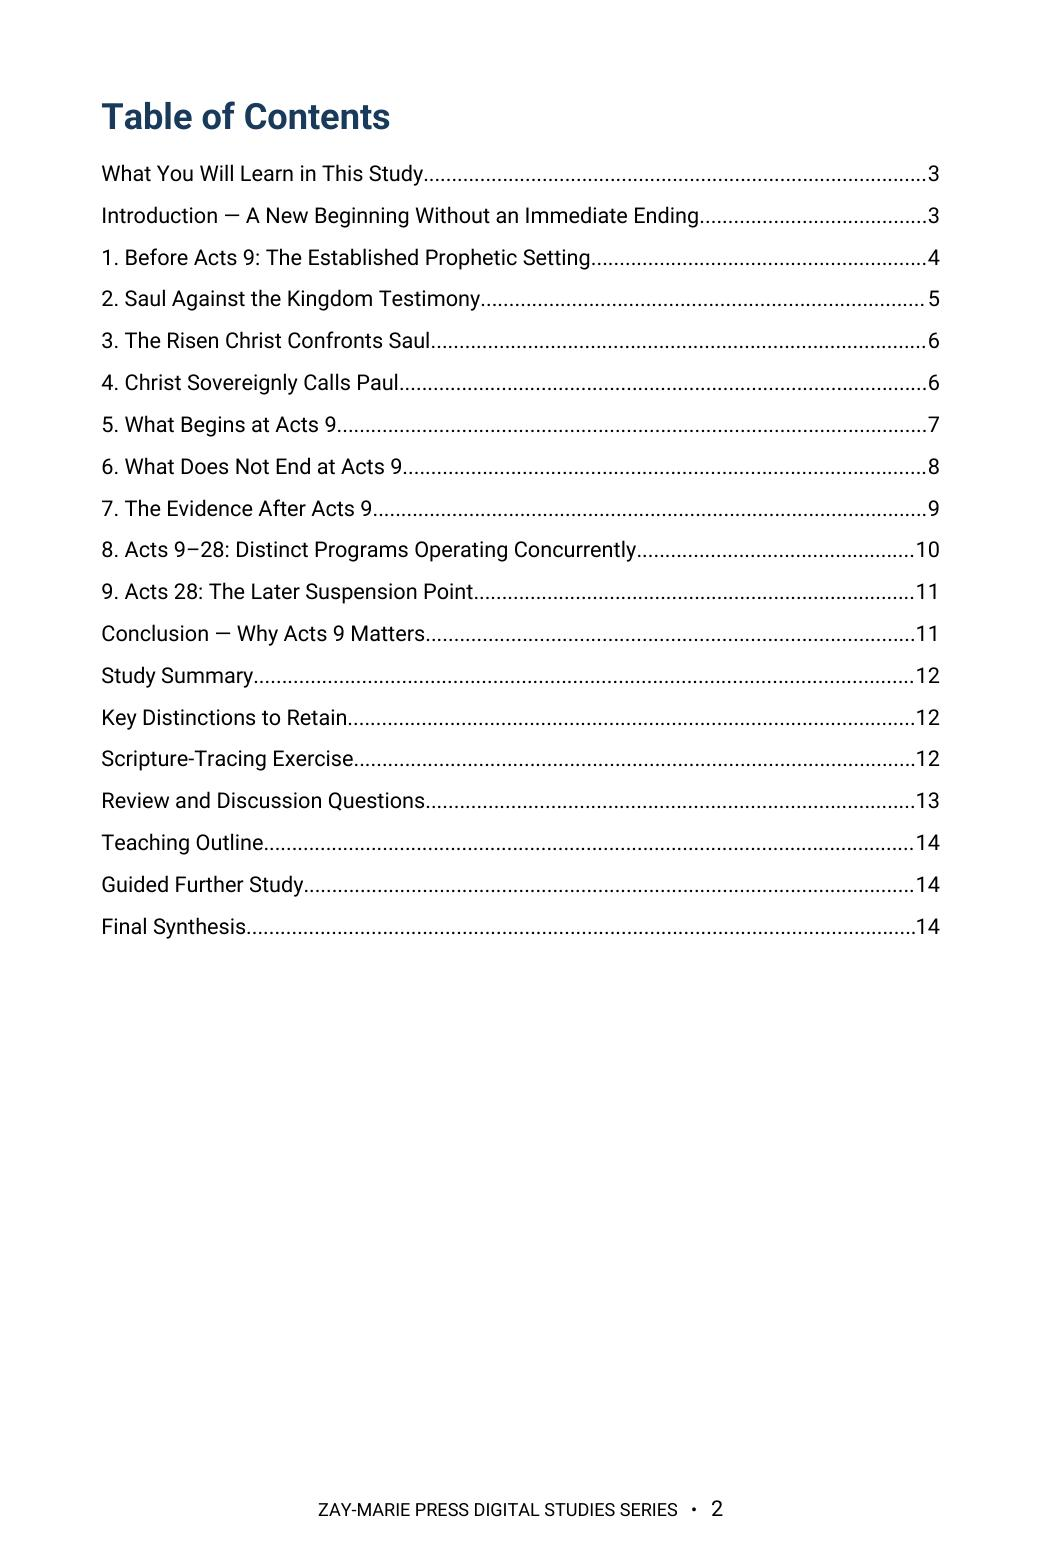
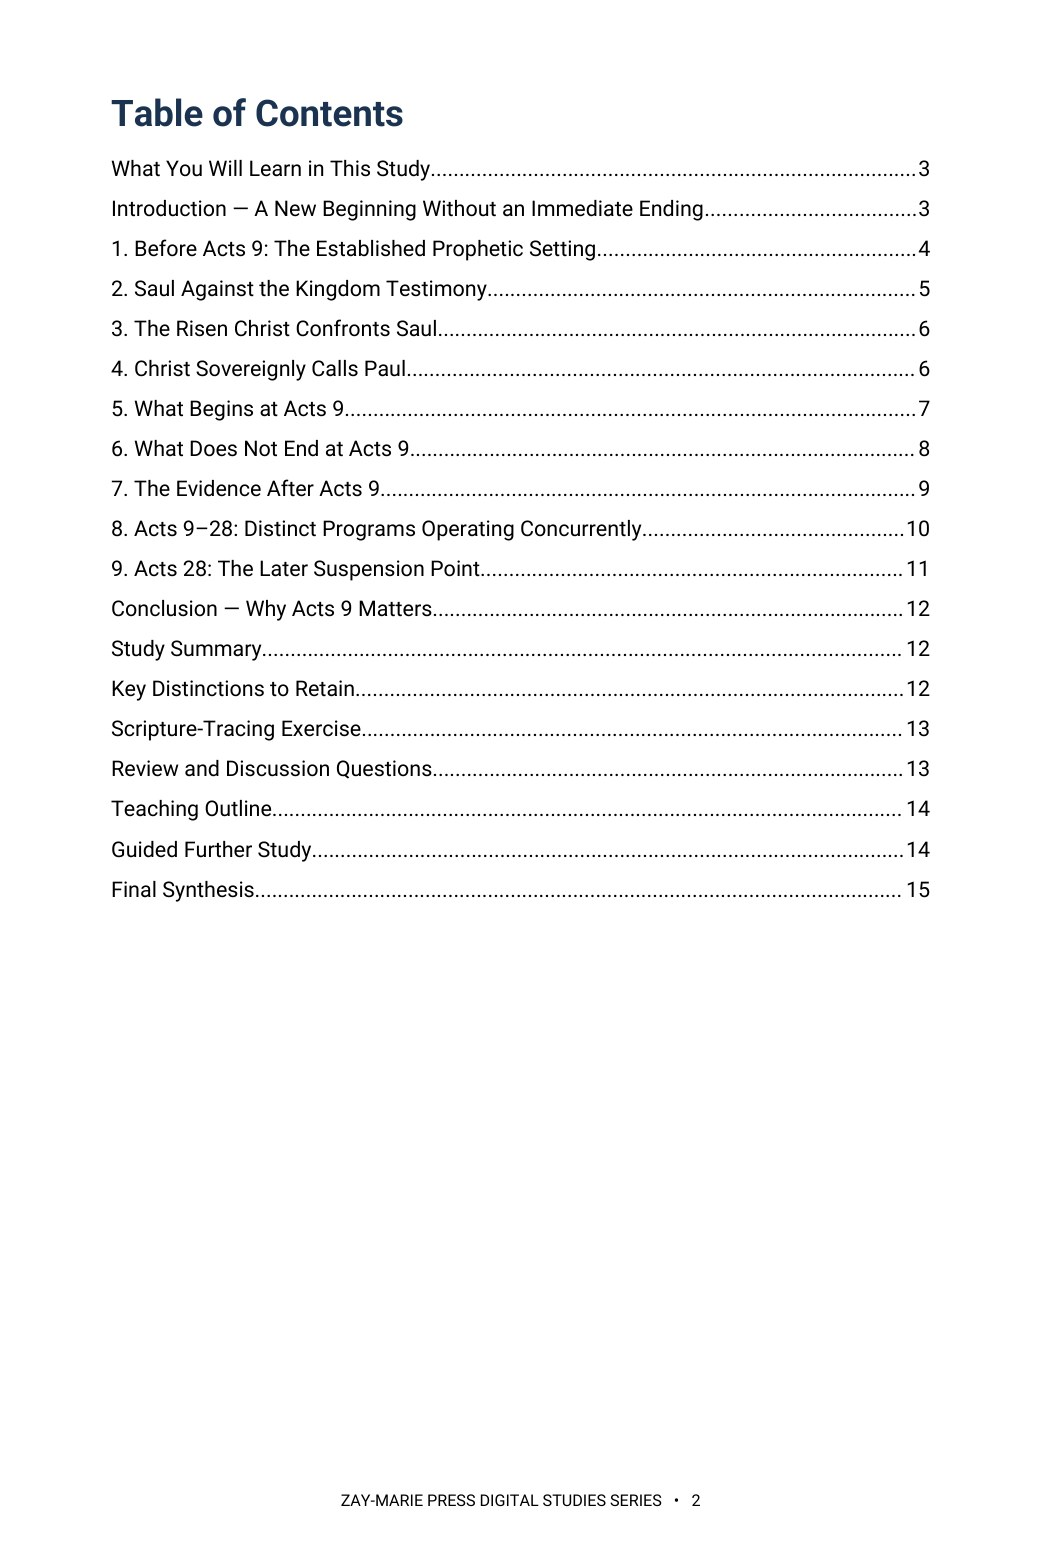
Study 14 retrofit: previews re-rendered at 1041x1562, trackers v1.46/v1.140
Claude-Session: https://claude.ai/code/session_01KcENxFzE91mCRyTPWhcwnE

diff --git a/controlling-documents/Doctrinal_Upgrade_Retrofit_Plan_v1.46.md b/controlling-documents/Doctrinal_Upgrade_Retrofit_Plan_v1.46.md
@@ -53,6 +53,7 @@ Working tracker for correcting published studies to the Framework/PAM v1.1, Mast
 | 31 The Judgments of Scripture | Tier 2 read (Acts 28, Day of the Lord, Revelation, Galatians 3, anchors, internal terms) | DONE 2026-10-02 (v1.41): rebuilt to the Study 52 page geometry at 10 pt body with 10 pt table spacing (19 → 18 pp, Roboto Regular/Bold). Removed 'The Framework assigns … not a PAM assignment' (replaced by a Matthew 25 anchor), 'Acts Overlap framework', 'five-question framework'; Acts 28 'not a transfer'; Body-not-in-the-Day-of-the-Lord and Revelation/Daniel lines (section 6); Matthew 25 nations line (section 7); Galatians 3 standing sentence (section 3); Colossians/2 Timothy and 2 Peter/Jude anchors (sections 5, 8). Page text: 'framework' wording replaced (method / outline). Previews 2, 3, 5 re-rendered. Imprint extra KJV sentence left for Wave 5. |
 | 32 Covenant and Dispensational Theology | Tier 2 read (Rule 18 synagogue mention, Acts 28, overlap, Rule 17, Romans 11 passing citation, Revelation, Hebrews, internal terms) | DONE 2026-10-03 (v1.42): rebuilt to the Study 52 page geometry at 10 pt body with 10 pt table spacing (16 → 19 pp, Roboto Regular/Bold). Hebrews and Revelation 20–22 working-term sentences replaced by reader-facing wording; overlap sentence, Rule 17 sentence, Acts 28 'not a transfer', full Rule 18 sentence with short form, and the Romans 11 four boundaries plus triad added; 'macro-framework' kept as teaching vocabulary. Website: site.js 32:19, 19 Pages in the page text, previews 2, 3, 5 re-rendered. |
 | 33 The Crowns of Scripture | Tier 2 read (Revelation, overlap, anchors, internal terms) | DONE 2026-10-03 (v1.43): rebuilt to the Study 52 page geometry at 10 pt body with 10 pt table spacing (16 → 18 pp, Roboto Regular/Bold). Introduction PAM/Framework paragraph replaced by the reader-facing letters anchor (James, 1 Peter, 2 John, Philippians, 1 Thessalonians, 2 Timothy); Revelation 4 elders carry the Rule 14 line; overlap sentence added to the Conclusion; 'Pauline framework' changed to 'treatment'. Website: site.js 33:18, 18 Pages in the page text, previews 2, 3, 5 re-rendered. |
+| 14 Why Acts 9 Matters | Tier 2 read (Rule 18, overlap, Rule 17, Rule 11, Acts 28, Romans 11, Cornelius, 1 Timothy anchor, internal terms) | DONE 2026-10-03 (v1.46): rebuilt from the publisher PDF to the Study 52 page geometry at 10 pt body (15 pp, Roboto). Three framework phrasings reworded; Rule 18 full sentence plus short form in the synagogue passages; overlap, Rule 17, Rule 11 and Acts 10–11 sentences added; Acts 28 callout now national judicial suspension, not abolition and not a transfer; Romans 11 four boundaries and 1 Timothy anchor added. Cover: the supplied PDF carried the retired RIGHT DIVISION label, so the BODY OF CHRIST site cover was used. Website: site.js 14:15 unchanged, previews 2, 3, 5 re-rendered at 1041x1562. |
 | 39 The Church's Relationship to Israel's Scriptures | Abrahamic/covenant participation + overlap sentence | DONE 2026-10-02 (v1.23): interior corrected (16 pp, Roboto). Withdrawn overlap sentence replaced with the standing sentence and Acts 28 'not abolition and not a transfer' added (§9); 'Gentiles participate spiritually' replaced by the standing Galatians 3 sentence (§8) and 'whole/every covenant term' partial-transfer wording tightened (§8, Study Summary, Key Distinctions table); Romans 11 four-point list and triad added (Introduction); 2 Timothy and Philippians anchors converted and a Colossians anchor added. Sections moved down: TOC updated (7 numbers); 16 pp. Website: previews 2, 3, 5 re-rendered at 1041x1565; site.js 39:16 unchanged |
 | 40 Who Is Abraham's Seed? | Gal 3 / Abrahamic participation (core) | DONE 2026-10-02 (v1.22): interior corrected (16 pp, Roboto). Withdrawn overlap sentence replaced with the standing sentence (Introduction); Romans 11 four-point list and triad added (Introduction); the 'Gentiles participate spiritually / Abrahamic heirship, benefit, inheritance, connection' family replaced with the standing Galatians 3 sentence and plain wording (§6, §8, §10, Study Summary, Key Distinctions table); Romans 4 'participate in promise' and Teaching Outline 'share that benefit' reworded. Sections moved down: TOC updated (Conclusion p10, Scripture-Tracing p11, Guided Further Study p16); 16 pp. Website: preview pages 2, 3 and 4 re-rendered; site.js 40:16 unchanged |
 | 52 Sonship and Adoption | Gal 3 / Abrahamic participation | DONE 2026-10-02 (v1.21): interior corrected (16 pp, Roboto). Withdrawn Galatians 3:26–29 'Gentiles participate spiritually / ethnic distinction is kept' wording replaced by the standing Galatians 3 sentence (3.4) and the 'participation in the seed is spiritual' line reworded; Study 40 pointer parenthetical removed; nine 'The Framework does not assign…' anchors and the Hebrews sentence converted to the reader-facing forms; Romans 11 four-point list and triad added (Group 3). Shorter anchors moved sections up a page, so TOC numbers updated (§5 p9, §6 p11, Conclusion p12, etc.); total still 16 pp. Website: page-2 (TOC) preview re-rendered; pages 3 and 5 unchanged |
@@ -132,3 +133,4 @@ Working tracker for correcting published studies to the Framework/PAM v1.1, Mast
 - v1.43 (2026-10-03): Study 33 retrofit complete at 10 pt (see row). Wave 4 is now complete. Next: Wave 5 verification sweep and 9 pt to 10 pt resets. Open: Titus anchor ruling.
 - v1.44 (2026-10-03): Wave 5 website-side sweep run (read-only), then website fixes applied: Study 17 hero kicker corrected; 'the Framework principle' reworded to 'the principle' on Study 49 and the connections guide; static page-count text corrected on Study 13 (buy panel 15→19) and Study 17 (heading 15→18); previews for Studies 52, 53, 55, 56, 57 and 58 re-rendered at 1041×1562 from the final PDFs (they had been stretched at 1041×1347); two unreferenced stray images deleted (study-03-cover.jpg.png, publishing-process-conviction-to-craft.png.png). STILL OPEN (need publisher input or files): true page counts for Studies 2 (site.js 14, page 15), 14 (15 vs 13), 15 (16 vs 13), 16 (16 vs 14), 18 (18 vs 13); site.js entries and counts for 59 and 60 (and their odd-sized previews); previews for 61–71 (1041×1347, stretched; PDFs needed); imprint KJV sentence ruling (Studies 1, 21, 23, 26, 29, 31, 32, 33); footer alignment ruling; Study 1 navy 'Investigation' headings; 9 pt → 10 pt resets for every study not yet at 10 pt (all except 29, 31, 32, 33); Rule 18 full sentence for 14, 18, 21, 43; Titus anchor ruling; held-back KJV tables for 19–21, 25, 28; Tier 6 interior reads for studies whose PDFs are not on hand.
 - v1.45 (2026-10-03): Publisher supplied PDFs for Studies 2, 14, 15, 16, 18, 59 and 60. Real page counts: 2 = 14, 14 = 15, 15 = 16, 16 = 16, 18 = 18, 59 = 16, 60 = 18 (all match site.js; static page text corrected on 2 [15→14], 14 [13→15], 15 [13→16], 16 [14→16], 18 [13→18]); site.js entries 59:16 and 60:18 added; previews for 59 and 60 re-rendered at 1041×1562 (PDF pages 3, 4, 8 and 3, 4, 5). Read-only findings on those PDFs: Study 2 is Letter 612×792 (Roboto, all four faces, no internal-term hits); 14, 15, 16 and 18 are 432×649 (old geometry) with 'Acts Overlap framework' / 'controlling framework' wording (14, 15, 18) and 'Under the Framework' (16 line 218) to convert; Studies 59 and 60 production masters are NOT Roboto (Carlito, Liberation and Noto fonts), Study 59 is 575×864, and both carry 'Overlap framework' wording (59, 60). All seven are queued for rebuild to the v1.47/v1.48 geometry and 10 pt when sources arrive. Stale-count items from v1.44 for 2, 14, 15, 16, 18, 59, 60 are now CLOSED.
+- v1.46 (2026-10-03): Study 14 retrofit complete (see row). 1 Timothy anchor ("This reading of 1 Timothy rests on the letter’s own audience markers and setting.") approved by the publisher; Titus still awaits its own ruling. Next: Study 18.

diff --git a/CLAUDE.md b/CLAUDE.md
@@ -21,7 +21,7 @@ These are kept in the repo at `controlling-documents/` and are the current versi
 - As of v1.48 (publisher directive, 2026-10-02), §6 sets the **body-text standard at 10 pt** and enforces the table-spacing rule, written into this file in the same pass: body paragraphs, lists, table body text and Table of Contents entries are Roboto Regular 10 pt black (previously 9 pt), at 6 pt after / 0 before / 1.08 line spacing (lists 0 pt after each item, 6 pt after the last); headings (17 pt), callout titles (10 pt bold caps), the "Study Outline" sub-heading (12 pt) and the footer are unchanged. Every table, callout boxes included, has 10 pt of controlled spacing before and after: the paragraph before a table has at least 10 pt space-after and the paragraph after it at least 10 pt space-before, so body text never touches a table (the defect was seen on Study 29, under a KJV table). Studies built at 9 pt (1, 3, 7, 8, 10, 23, 26, 29 and the other rebuilt studies) are reset to 10 pt when reopened or in the Wave 5 sweep, and page counts, TOC pages, previews and `site.js` follow each rebuild. In every study check (Step 1) report the body size and measure the first paragraph after each table. Study 29 is the first study rebuilt to it.
 **`controlling-documents/Digital_Studies_Relationship_Map_v1.39.md`** — records each study's distinct subject, its related studies, the eight priced six-study collections, the Paul's Missionary Journeys cross-reference map, and the five primary catalog categories (currently version 1.39, covers Studies 1–71; update it as new studies publish, bump the version number, rename the file to match, and log the change in its own version-history table — mirroring the Master Standard's `_vX.Y` filename convention). Check a proposed topic against it before recommending or writing a new study. (2026-09-28: the file was missing from this repo despite this note referencing it; replaced from the publisher's copy and bumped v1.15→v1.25 in the same pass. If this note ever again points to a version not present under `controlling-documents/`, ask the publisher for a copy rather than proceeding without the check.)
 - **`controlling-documents/Digital_Studies_Category_Standard_v1.1.md`** — FINAL and binding (publisher, 2026-10-01): the rules for the five primary catalog categories (Foundations, Israel & Prophecy, Body of Christ, Passages, Doctrinal Themes), the ordered decision procedure for new studies, the precedents, all 71 fixed assignments, and the cover-label form for each category. Read it before placing any card or cover label. Do not ask the publisher where a study belongs; apply the procedure and state the result. Only the publisher changes a ruling; then bump this Standard's version and filename, re-letter the cover, and update the Relationship Map.
-- **`controlling-documents/Doctrinal_Upgrade_Retrofit_Plan_v1.45.md`** — working tracker for retrofitting Studies 1–59 to the 2026-10-02 doctrinal upgrade (Framework/PAM v1.1, Master Standard v1.40, Rules 7–17): withdrawn-wording search keys, impact tiers, waves and the per-study method. Read it before continuing the retrofit in any session; update status, bump the version and rename the file as work proceeds.
+- **`controlling-documents/Doctrinal_Upgrade_Retrofit_Plan_v1.46.md`** — working tracker for retrofitting Studies 1–59 to the 2026-10-02 doctrinal upgrade (Framework/PAM v1.1, Master Standard v1.40, Rules 7–17): withdrawn-wording search keys, impact tiers, waves and the per-study method. Read it before continuing the retrofit in any session; update status, bump the version and rename the file as work proceeds.
 - **`controlling-documents/Doctrinal_Packet_Standard_v0.3.md`** — Doctrinal Packet Standard (DRAFT; §7 approved). Governs the separate Doctrinal Packets product strand (5-page interpretive PDFs per Bible book — a print-friendly cover as page 1 plus 4 content pages, $2.99, KJV, pilot: Genesis, live at `packet-genesis.html`, hub `doctrinal-packets.html`; site pages say "5 Pages", cover styles live in `packets.css`, Old Testament blue and New Testament soft pale green, hub listed in Bible order). **Preview rule (publisher directive, 2026-09-29, packets only):** previews show about one page's worth in two cropped views (top of page 1 through the anchor texts; the chart section) — never the exegesis, architecture, Mystery contrast, logic chain, outline, or closing. Master Standard §16/§17 still govern Digital Studies. Bump the version and rename the file as the Standard is finalized.
 - **`controlling-documents/Preview_Page_Spoiler_Retrofit_Audit_v1.4.md`** — working tracker for the Studies 1–60 preview-page conclusion-spoiler retrofit (see the section below). Read it before continuing that audit in any session; update its status fields and changelog, bump the version, and rename the file to match as the audit proceeds — same `_vX.Y` convention as the other controlling documents. As of v1.1, the website-side half was DONE: all 60 studies' "What You'll Study" text was judged against the rule (methodology documented in the file) and 22 points across 11 studies were rewritten and pushed; an unrelated Study 22 content bug (Study 21's content had leaked into it) was also found and fixed. As of v1.2, the publisher supplied Studies 1–60's interior production PDFs and the interior-PDF half was also surveyed (read-only): 10 studies (37, 41, 45, 47, 48, 49, 51, 52, 53, 54) were found to have at least one interior "What You Will Learn" violation, 50 studies were confirmed compliant, and the orphaned `assets/study-45-sanctification-under-grace.docx` (removed from the repo per the publisher in v1.0) was confirmed word-for-word identical to Study 45's actual production interior PDF content. As of v1.3, the publisher supplied editable DOCX sources for all 10 violating studies; all 15 violating points were rewritten and approved, delivered as corrected final PDFs, and — along the way — a second defect was found and fixed (Studies 47 and 48's source DOCX still had an unintegrated cover placeholder despite both being long-published live with real covers; fixed by inserting the existing approved cover art). The website's "What You Will Learn" preview image (`study-NN-page-3.jpg`) was regenerated from the corrected content for all 10 studies and pushed to `main` (commit `cea1859`), verified against a fresh clone. **The website side of this audit is now fully compliant for all 60 studies.** Outstanding: the publisher's purchasable interior PDF files themselves have corrected versions delivered, but distribution to existing purchasers was decided by the publisher on 2026-09-29: silent swap of the files behind the existing downloads, no reissue notice (recorded in the v1.4 changelog entry; the product files are not in this repo).
 

diff --git a/controlling-documents/Digital_Studies_PAM_Audit_v1.140.md b/controlling-documents/Digital_Studies_PAM_Audit_v1.140.md
@@ -369,3 +369,4 @@ Study 15 PDF not yet supplied. Typography: none of Studies 2, 3, 6, 8 is in EB G
 - v1.137 (2026-10-03): Study 33 retrofitted at 10 pt: PAM/Framework paragraph replaced by a reader-facing anchor; Rule 14 line on the twenty-four elders; overlap sentence added; 18 pp; previews 2, 3, 5; site.js 33:18.
 - v1.138 (2026-10-03): Wave 5 website-side fixes: Study 49 and connections guide 'Framework principle' reworded; Study 17 kicker corrected and heading count 15→18; Study 13 buy-panel count 15→19; previews for 52, 53, 55–58 re-rendered at 1041×1562.
 - v1.139 (2026-10-03): Page counts verified from the publisher's PDFs for Studies 2, 14, 15, 16, 18, 59, 60; static page text corrected on 2, 14, 15, 16, 18; site.js 59:16 and 60:18 added; previews 59 and 60 re-rendered at 1041×1562.
+- v1.140 (2026-10-03): Study 14 interior rebuilt (15 pp, 10 pt, Roboto); Rule 18, overlap, Rule 17, Rule 11, Acts 10–11 and Romans 11 boundaries applied; previews 2, 3, 5 re-rendered.
